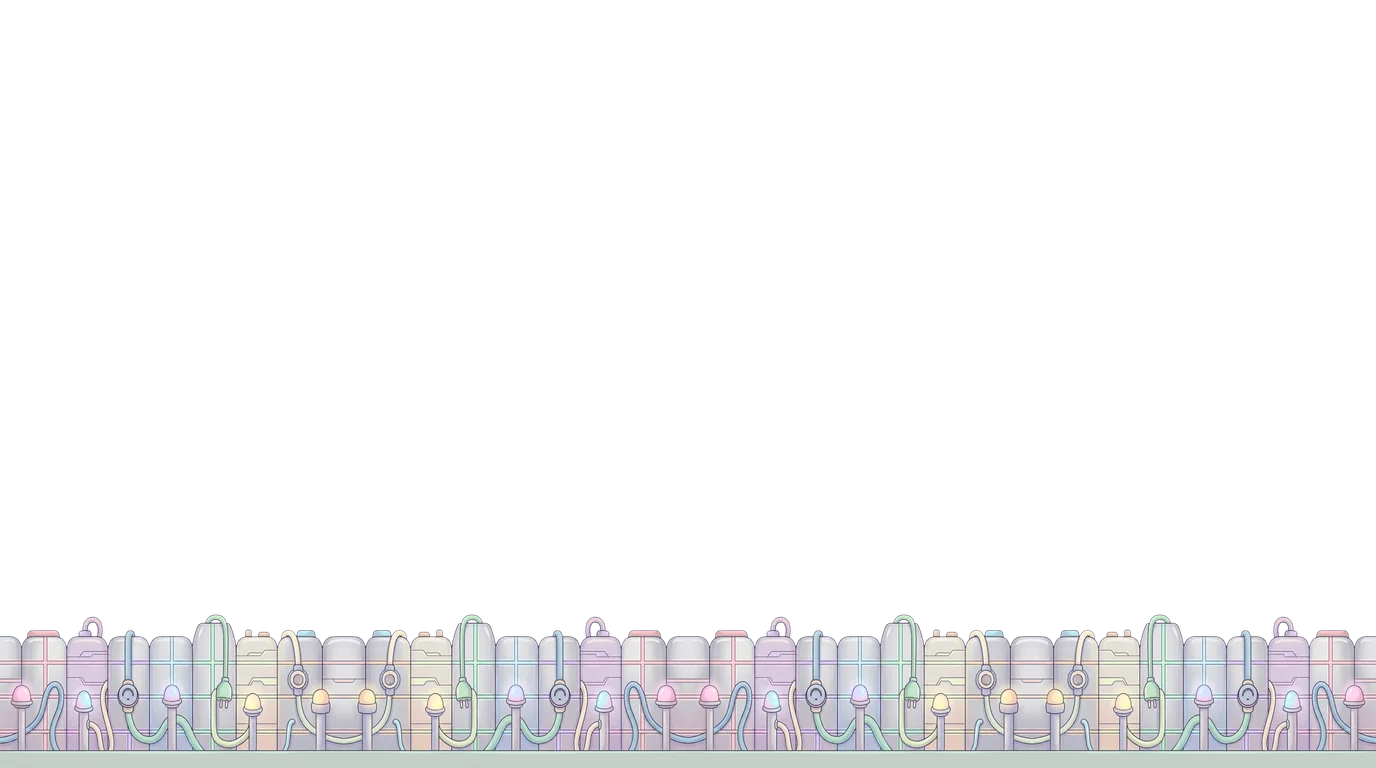
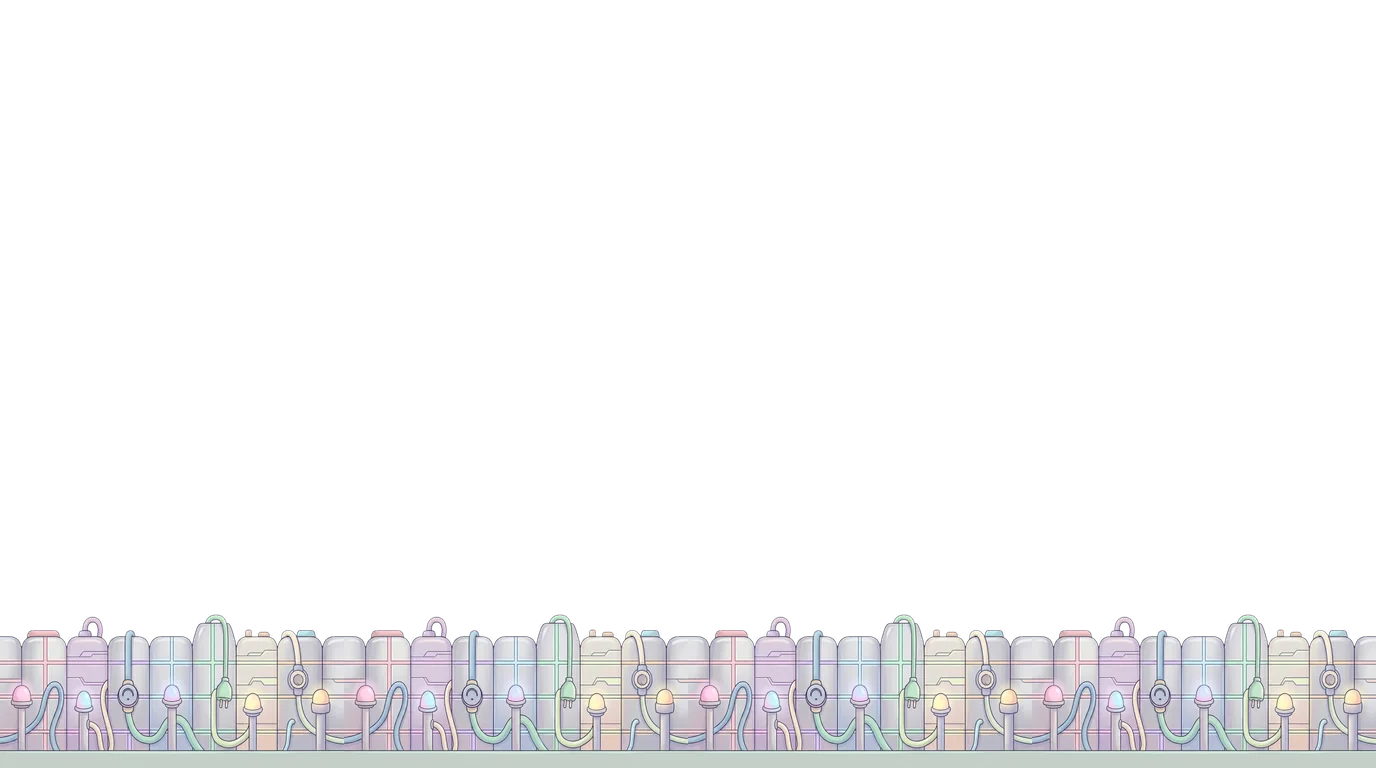
fix(assets): join strip copies side by side instead of mirroring
Claude-Session: https://claude.ai/code/session_01T65eT6icCJhzD8mh6Ejoge

Changed region(s): [[0.75, 0.7812, 1.0, 1.0], [0.25, 0.7812, 0.5, 1.0]]

diff --git a/assets-src/PROMPTS.md b/assets-src/PROMPTS.md
@@ -218,7 +218,7 @@ Wide game background, landscape 16:9: SCENE. The sky is a small part of the imag
 
 ### Common prompt for `*-mid.jpg` and `*-near.jpg` (replace LAYER and WORLD STYLE)
 ```
-WORLD STYLE. Ultra-wide panoramic image, 21:9, on a flat solid pure magenta (#FF00FF) background. Along the bottom edge a low band of ground in the ground color of the world, about the lowest fifth of the image. Standing on that ground band: LAYER, 6 to 12 large whole pieces that overlap a little, no tiny pieces, soft muted colors and little fine detail. The pieces reach up to different heights (the tallest almost to the top edge), so their tops form an uneven silhouette, never a straight or flat top edge. Between and above the pieces there is only the flat magenta: no ground, no wall, no sky, no distant objects, no silhouettes in the background, nothing behind the pieces except magenta. Strong contrast: pieces clearly darker or more saturated than the ground band. Every piece appears only once: do not repeat or copy any part of the image inside it. No piece is cut by the left or right edge of the image. No white or light outline, halo or sticker border around the pieces: their dark outlines meet the magenta directly. No characters, no text. Flat side view like a 2D platformer, no perspective and no vanishing point: the ground band is a straight horizontal band seen from the side, nothing runs toward a point in the distance.
+WORLD STYLE. Ultra-wide panoramic image, 21:9, on a flat solid pure magenta (#FF00FF) background. Along the bottom edge a low band of ground in the ground color of the world, about the lowest fifth of the image. Standing on that ground band: LAYER, 6 to 12 large whole pieces that overlap a little, no tiny pieces, soft muted colors and little fine detail. The pieces reach up to different heights (the tallest almost to the top edge), so their tops form an uneven silhouette, never a straight or flat top edge. Between and above the pieces there is only the flat magenta: no ground, no wall, no sky, no distant objects, no silhouettes in the background, nothing behind the pieces except magenta. Strong contrast: pieces clearly darker or more saturated than the ground band. Every piece appears only once: do not repeat or copy any part of the image inside it. The left and right edges continue seamlessly into each other so the strip can repeat side by side. No white or light outline, halo or sticker border around the pieces: their dark outlines meet the magenta directly. No characters, no text. Flat side view like a 2D platformer, no perspective and no vanishing point: the ground band is a straight horizontal band seen from the side, nothing runs toward a point in the distance.
 ```
 The height column is where the script places the strip (part of the screen height,
 counted from the bottom); it lives in `STRIP_HEIGHT` in `scripts/assets.mjs`.
